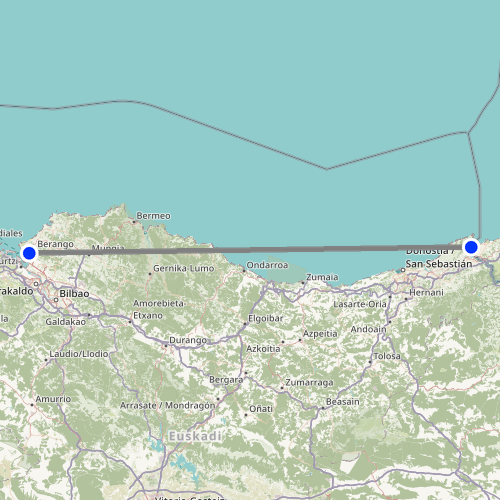
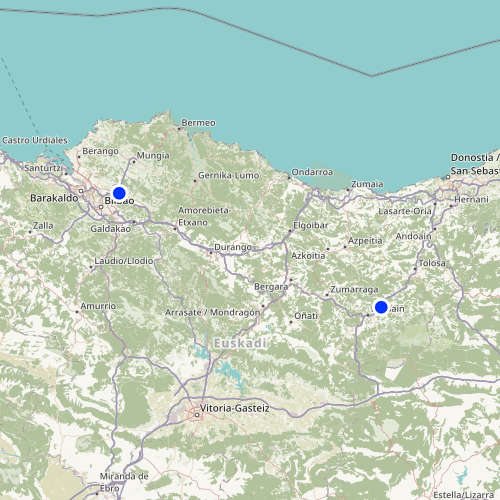
funciona, falta bucle crear preguntas y csv

diff --git a/distances.py b/distances.py
@@ -124,6 +124,26 @@ def osrm_query(point1, point2):
 
     return distance, duration
 
+def wrong_distances(distance):
+  min_proportion = 0.1
+  max_proportion = 0.2
+
+  case = random.randrange(0,3)
+  if case == 0: # 2 azpitik
+    alternative1 = distance - random.randrange(int(distance*min_proportion), int(distance*max_proportion), 2)
+    alternative2 = distance - random.randrange(int(distance*min_proportion), int(distance*max_proportion), 2)
+
+  if case == 1: # 1 azpitik, 1 gainetik
+    alternative1 = distance - random.randrange(int(distance*min_proportion), int(distance*max_proportion), 2)
+    alternative2 = distance + random.randrange(int(distance*min_proportion), int(distance*max_proportion), 2)
+
+  else: # 2 gainetik
+    alternative1 = distance + random.randrange(int(distance*min_proportion), int(distance*max_proportion), 2)
+    alternative2 = distance + random.randrange(int(distance*min_proportion), int(distance*max_proportion), 2)
+
+
+  return alternative1, alternative2
+
 
 # Project osrm query 
 # comprobar que no sean iguales
@@ -135,24 +155,15 @@ def get_distance(point1, point2):
     print("Distantzia: " + str(distance/1000))
     print("Iraupena: " + str(datetime.timedelta(seconds=duration)))
 
-    case = random.randrange(0,2,1)
-    
-    if case == 0: # 2 azpitik
-      alternative1 = distance - random.randrange(int(distance*0.05), int(distance*0.2), 2)
-      alternative2 = distance - random.randrange(int(distance*0.05), int(distance*0.2), 2)
-
-    if case == 1: # 1 azpitik, 1 gainetik
-      alternative1 = distance - random.randrange(int(distance*0.05), int(distance*0.2), 2)
-      alternative2 = distance + random.randrange(int(distance*0.05), int(distance*0.2), 2)
-
-    else: # 2 gainetik
-      alternative1 = distance + random.randrange(int(distance*0.05), int(distance*0.2), 2)
-      alternative2 = distance + random.randrange(int(distance*0.05), int(distance*0.2), 2)
+    alternative1, alternative2 = wrong_distances(distance)
 
     print("dist_zuzena: {}; dist_okerra1: {}; dist_okerra2:{}".format(int(distance/1000), int(alternative1/1000), int(alternative2/1000)))
 
+    while distance == alternative1 or distance == alternative2 or alternative1 == alternative2:
+      alternative1, alternative2 = wrong_distances(distance)
+
     #cambiar  a url de osm
-    erantzuna = "https://map.project-osrm.org/?loc={}&loc={}".format(rev_lats(point1), rev_lats(point2))
+    erantzuna = "https://www.openstreetmap.org/directions?route={}%3B{}".format(rev_lats(point1), rev_lats(point2))
 
     print(erantzuna)
 
@@ -161,4 +172,4 @@ if __name__ == "__main__":
   bindings = query_cities()
   points = get_different_points(bindings)
   get_distance(points[0], points[1])
-  draw_map(points[0], points[1], "test.png")
+  draw_map(points[0], points[1], "map.png")
